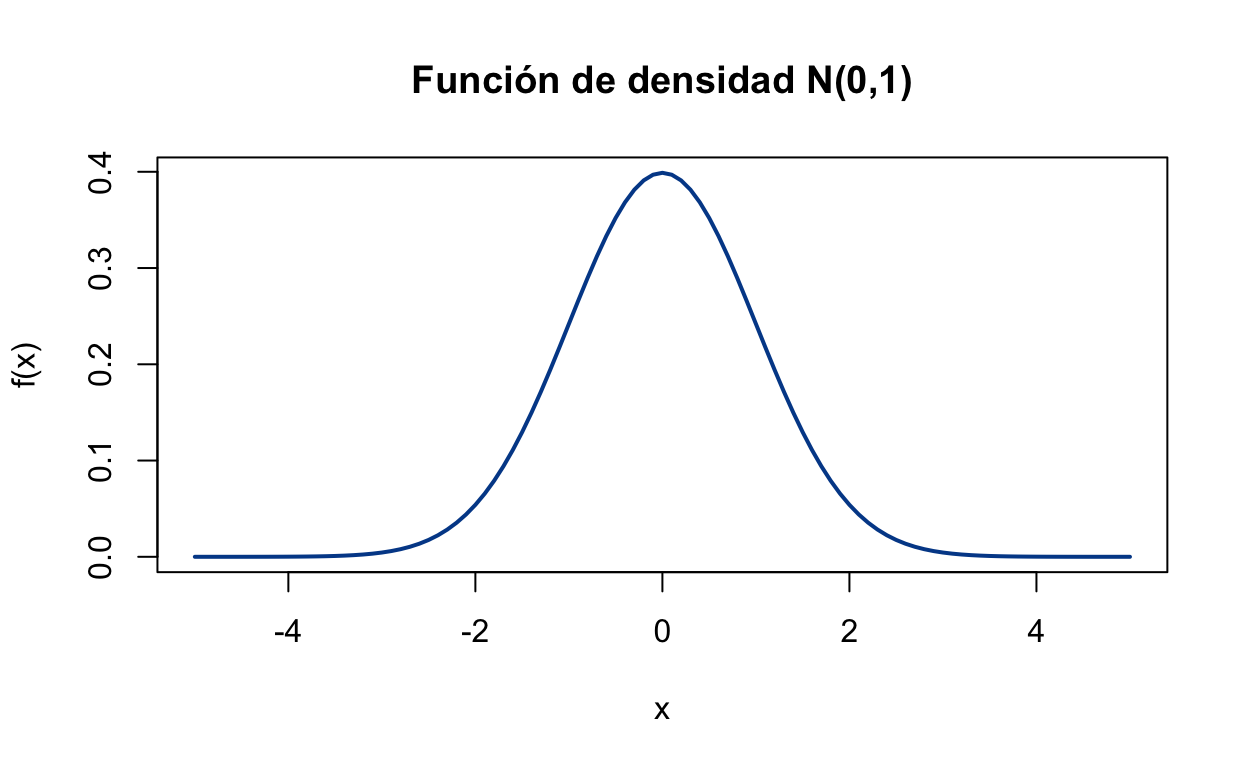
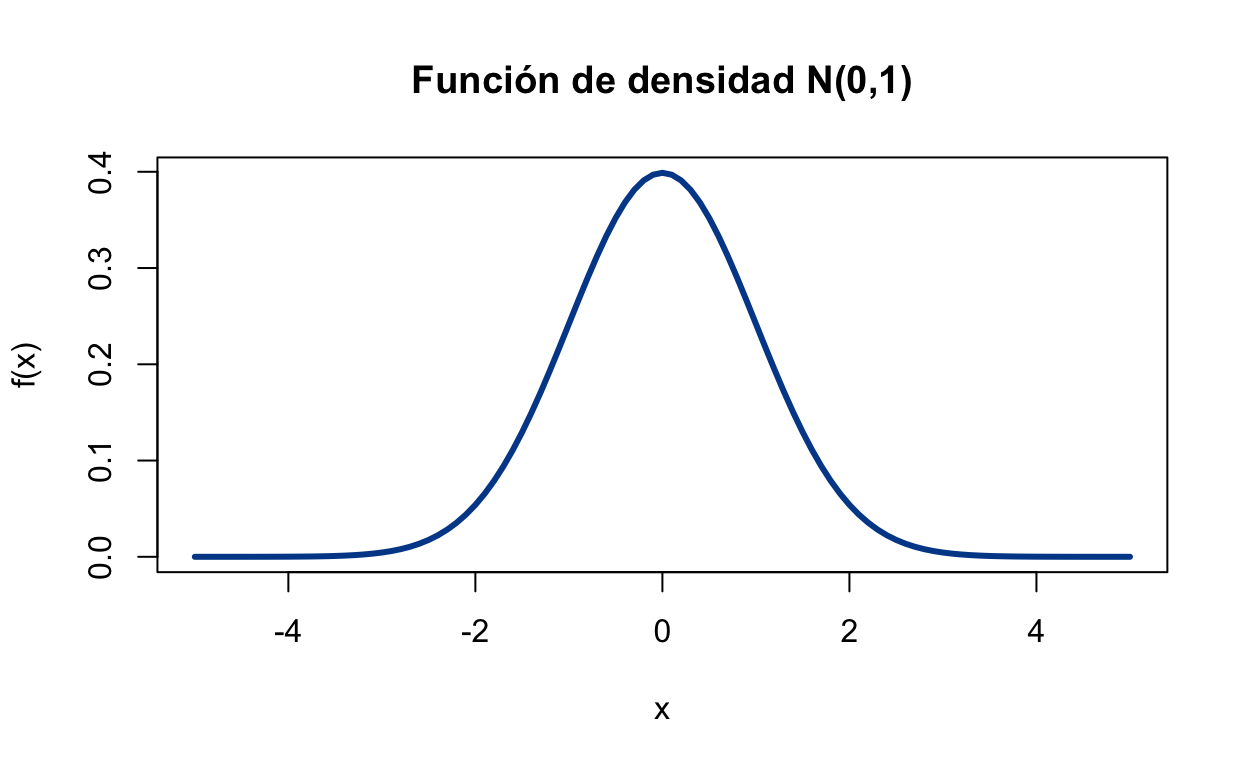
muestra

diff --git a/docs/clasemuestra.html b/docs/clasemuestra.html
@@ -46,43 +46,46 @@ pre.numberSource code > span > a:first-child::before
     -khtml-user-select: none; -moz-user-select: none;
     -ms-user-select: none; user-select: none;
     padding: 0 4px; width: 4em;
-    color: #aaaaaa;
+    background-color: #232629;
+    color: #7a7c7d;
   }
-pre.numberSource { margin-left: 3em; border-left: 1px solid #aaaaaa;  padding-left: 4px; }
+pre.numberSource { margin-left: 3em; border-left: 1px solid #7a7c7d;  padding-left: 4px; }
 div.sourceCode
-  {   }
+  { color: #cfcfc2; background-color: #232629; }
 @media screen {
 pre > code.sourceCode > span > a:first-child::before { text-decoration: underline; }
 }
-code span.al { color: #ad0000; } /* Alert */
-code span.an { color: #5e5e5e; } /* Annotation */
-code span.at { } /* Attribute */
-code span.bn { color: #ad0000; } /* BaseN */
-code span.bu { } /* BuiltIn */
-code span.cf { color: #007ba5; } /* ControlFlow */
-code span.ch { color: #20794d; } /* Char */
-code span.cn { color: #8f5902; } /* Constant */
-code span.co { color: #5e5e5e; } /* Comment */
-code span.cv { color: #5e5e5e; font-style: italic; } /* CommentVar */
-code span.do { color: #5e5e5e; font-style: italic; } /* Documentation */
-code span.dt { color: #ad0000; } /* DataType */
-code span.dv { color: #ad0000; } /* DecVal */
-code span.er { color: #ad0000; } /* Error */
-code span.ex { } /* Extension */
-code span.fl { color: #ad0000; } /* Float */
-code span.fu { color: #4758ab; } /* Function */
-code span.im { } /* Import */
-code span.in { color: #5e5e5e; } /* Information */
-code span.kw { color: #007ba5; } /* Keyword */
-code span.op { color: #5e5e5e; } /* Operator */
-code span.ot { color: #007ba5; } /* Other */
-code span.pp { color: #ad0000; } /* Preprocessor */
-code span.sc { color: #5e5e5e; } /* SpecialChar */
-code span.ss { color: #20794d; } /* SpecialString */
-code span.st { color: #20794d; } /* String */
-code span.va { color: #111111; } /* Variable */
-code span.vs { color: #20794d; } /* VerbatimString */
-code span.wa { color: #5e5e5e; font-style: italic; } /* Warning */
+code span { color: #cfcfc2; } /* Normal */
+code span.al { color: #95da4c; background-color: #4d1f24; font-weight: bold; } /* Alert */
+code span.an { color: #3f8058; } /* Annotation */
+code span.at { color: #2980b9; } /* Attribute */
+code span.bn { color: #f67400; } /* BaseN */
+code span.bu { color: #7f8c8d; } /* BuiltIn */
+code span.cf { color: #fdbc4b; font-weight: bold; } /* ControlFlow */
+code span.ch { color: #3daee9; } /* Char */
+code span.cn { color: #27aeae; font-weight: bold; } /* Constant */
+code span.co { color: #7a7c7d; } /* Comment */
+code span.cv { color: #7f8c8d; } /* CommentVar */
+code span.do { color: #a43340; } /* Documentation */
+code span.dt { color: #2980b9; } /* DataType */
+code span.dv { color: #f67400; } /* DecVal */
+code span.er { color: #da4453; text-decoration: underline; } /* Error */
+code span.ex { color: #0099ff; font-weight: bold; } /* Extension */
+code span.fl { color: #f67400; } /* Float */
+code span.fu { color: #8e44ad; } /* Function */
+code span.im { color: #27ae60; } /* Import */
+code span.in { color: #c45b00; } /* Information */
+code span.kw { color: #cfcfc2; font-weight: bold; } /* Keyword */
+code span.op { color: #cfcfc2; } /* Operator */
+code span.ot { color: #27ae60; } /* Other */
+code span.pp { color: #27ae60; } /* Preprocessor */
+code span.re { color: #2980b9; background-color: #153042; } /* RegionMarker */
+code span.sc { color: #3daee9; } /* SpecialChar */
+code span.ss { color: #da4453; } /* SpecialString */
+code span.st { color: #f44f4f; } /* String */
+code span.va { color: #27aeae; } /* Variable */
+code span.vs { color: #da4453; } /* VerbatimString */
+code span.wa { color: #da4453; } /* Warning */
 </style>
 
 
@@ -113,7 +116,7 @@ code span.wa { color: #5e5e5e; font-style: italic; } /* Warning */
   <!--radix_placeholder_rmarkdown_metadata-->
 
   <script type="text/json" id="radix-rmarkdown-metadata">
-  {"type":"list","attributes":{"names":{"type":"character","attributes":{},"value":["title","description","date","author","output"]}},"value":[{"type":"character","attributes":{},"value":["Clase Mi040522 "]},{"type":"character","attributes":{},"value":["3.1: Distribuciones de Probablibilidad\n\n3.1.3: Distrubución normal \n\nPortafolio de R\n"]},{"type":"character","attributes":{},"value":["May 4, 2022"]},{"type":"list","attributes":{},"value":[{"type":"list","attributes":{"names":{"type":"character","attributes":{},"value":["first_name","last_name","url","affiliation","affiliation_url"]}},"value":[{"type":"character","attributes":{},"value":["Rafael"]},{"type":"character","attributes":{},"value":["Martínez Martínez"]},{"type":"character","attributes":{},"value":["https://github.com/yihui"]},{"type":"character","attributes":{},"value":["UPIITA-IPN"]},{"type":"character","attributes":{},"value":["https://www.upiita.ipn.mx/"]}]}]},{"type":"list","attributes":{"names":{"type":"character","attributes":{},"value":["distill::distill_article"]}},"value":[{"type":"list","attributes":{"names":{"type":"character","attributes":{},"value":["toc","toc_float"]}},"value":[{"type":"logical","attributes":{},"value":[true]},{"type":"logical","attributes":{},"value":[true]}]}]}]}
+  {"type":"list","attributes":{"names":{"type":"character","attributes":{},"value":["title","description","date","author","output"]}},"value":[{"type":"character","attributes":{},"value":["Clase Mi040522 "]},{"type":"character","attributes":{},"value":["3.1: Distribuciones de Probablibilidad\n\n3.1.3: Distrubución normal \n\nPortafolio de R\n"]},{"type":"character","attributes":{},"value":["May 4, 2022"]},{"type":"list","attributes":{},"value":[{"type":"list","attributes":{"names":{"type":"character","attributes":{},"value":["first_name","last_name","url","affiliation","affiliation_url"]}},"value":[{"type":"character","attributes":{},"value":["Rafael"]},{"type":"character","attributes":{},"value":["Martínez Martínez"]},{"type":"character","attributes":{},"value":["https://github.com/yihui"]},{"type":"character","attributes":{},"value":["UPIITA-IPN"]},{"type":"character","attributes":{},"value":["https://www.upiita.ipn.mx/"]}]}]},{"type":"list","attributes":{"names":{"type":"character","attributes":{},"value":["distill::distill_article"]}},"value":[{"type":"list","attributes":{"names":{"type":"character","attributes":{},"value":["toc","toc_float","highlight","highlight_downlit"]}},"value":[{"type":"logical","attributes":{},"value":[true]},{"type":"logical","attributes":{},"value":[true]},{"type":"character","attributes":{},"value":["breezedark"]},{"type":"logical","attributes":{},"value":[true]}]}]}]}
   </script>
   <!--/radix_placeholder_rmarkdown_metadata-->
   <!--radix_placeholder_navigation_in_header-->
@@ -2147,6 +2150,11 @@ code span.wa { color: #5e5e5e; font-style: italic; } /* Warning */
    color: rgba(0,74,151,0.5);
   }
 
+  p {
+    
+    color: rgba(125,127,129,1);
+  }
+
   </style>
   <!--/radix_placeholder_site_in_header-->
 
@@ -2224,6 +2232,7 @@ probabilidad</a></li>
 <li><a href="#ejemplo-2">Ejemplo 2</a></li>
 <li><a href="#ejemplo-3">Ejemplo 3</a></li>
 <li><a href="#ejemplo-4">Ejemplo 4</a></li>
+<li><a href="#ejemplo-5">Ejemplo 5</a></li>
 </ul></li>
 </ul></li>
 <li><a href="#portafolio-de-r">Portafolio de R</a></li>
@@ -2240,11 +2249,11 @@ href="https://cran.r-project.org/web/views/Distributions.html">documento</a>
 donde se puede encontrar una descripción sobre las distribuciones y
 bibliotecas donde están inplementadas.</p>
 <h1 id="distribución-normal">Distribución normal</h1>
-<p>La función de distribución de probabilidad normal está determinada
+<p>La función de densidad de probabilidad normal está determinada
 por</p>
 <p><span class="math display">\[f(x) = \frac{1}{\sqrt{2 \pi} \sigma}
 e^{-\frac{(x - \mu)^2}{2 \sigma^2}}\]</span> Mientras que la función de
-densidad de probabilidad es</p>
+distribución de probabilidad es</p>
 <p><span class="math display">\[F(x)=P(X\leq x)=\int_{-\infty}^x f(t)
 \,dt=\frac{1}{\sqrt{2 \pi} \sigma}\int_{-\infty}^x e^{-\frac{(t -
 \mu)^2}{2 \sigma^2}}\,dt\]</span></p>
@@ -2288,12 +2297,12 @@ class="math inline">\(X\sim N(0,1)\)</span></p>
 <pre class="sourceCode r"><code class="sourceCode r"><span class='fu'><a href='https://rdrr.io/r/base/print.html'>print</a></span><span class='op'>(</span><span class='fu'><a href='https://rdrr.io/r/stats/Normal.html'>rnorm</a></span><span class='op'>(</span><span class='fl'>5</span><span class='op'>)</span><span class='op'>)</span>
 </code></pre>
 </div>
-<pre><code>[1] 0.7880043 0.3499556 1.9475103 0.1891410 0.1399257</code></pre>
+<pre><code>[1]  1.1587787  0.2045420  0.6764234 -0.3853769 -0.4586691</code></pre>
 </div>
 <p>Se realiza la gráfica de la función de densidad y de distribución</p>
 <div class="layout-chunk" data-layout="l-body">
 <div class="sourceCode">
-<pre class="sourceCode r"><code class="sourceCode r"><span class='fu'><a href='https://rdrr.io/r/graphics/curve.html'>curve</a></span><span class='op'>(</span><span class='fu'><a href='https://rdrr.io/r/stats/Normal.html'>dnorm</a></span><span class='op'>(</span><span class='va'>x</span>,<span class='fl'>0</span>,<span class='fl'>1</span><span class='op'>)</span>,xlim<span class='op'>=</span><span class='fu'><a href='https://rdrr.io/r/base/c.html'>c</a></span><span class='op'>(</span><span class='op'>-</span><span class='fl'>5</span>,<span class='fl'>5</span><span class='op'>)</span>,col<span class='op'>=</span><span class='st'>"#004A97"</span>,lwd<span class='op'>=</span><span class='fl'>2</span>,
+<pre class="sourceCode r"><code class="sourceCode r"><span class='fu'><a href='https://rdrr.io/r/graphics/curve.html'>curve</a></span><span class='op'>(</span><span class='fu'><a href='https://rdrr.io/r/stats/Normal.html'>dnorm</a></span><span class='op'>(</span><span class='va'>x</span>,<span class='fl'>0</span>,<span class='fl'>1</span><span class='op'>)</span>,xlim<span class='op'>=</span><span class='fu'><a href='https://rdrr.io/r/base/c.html'>c</a></span><span class='op'>(</span><span class='op'>-</span><span class='fl'>5</span>,<span class='fl'>5</span><span class='op'>)</span>,col<span class='op'>=</span><span class='st'>"#004A97"</span>,lwd<span class='op'>=</span><span class='fl'>3</span>,
       xlab<span class='op'>=</span><span class='st'>"x"</span>,ylab<span class='op'>=</span><span class='st'>"f(x)"</span>,main<span class='op'>=</span><span class='st'>"Función de densidad N(0,1)"</span><span class='op'>)</span>
 </code></pre>
 </div>
@@ -2301,7 +2310,7 @@ class="math inline">\(X\sim N(0,1)\)</span></p>
 </div>
 <div class="layout-chunk" data-layout="l-body">
 <div class="sourceCode">
-<pre class="sourceCode r"><code class="sourceCode r"><span class='fu'><a href='https://rdrr.io/r/graphics/curve.html'>curve</a></span><span class='op'>(</span><span class='fu'><a href='https://rdrr.io/r/stats/Normal.html'>pnorm</a></span><span class='op'>(</span><span class='va'>x</span>,<span class='fl'>0</span>,<span class='fl'>1</span><span class='op'>)</span>,xlim<span class='op'>=</span><span class='fu'><a href='https://rdrr.io/r/base/c.html'>c</a></span><span class='op'>(</span><span class='op'>-</span><span class='fl'>5</span>,<span class='fl'>5</span><span class='op'>)</span>,col<span class='op'>=</span><span class='st'>"#004A97"</span>,lwd<span class='op'>=</span><span class='fl'>2</span>,
+<pre class="sourceCode r"><code class="sourceCode r"><span class='fu'><a href='https://rdrr.io/r/graphics/curve.html'>curve</a></span><span class='op'>(</span><span class='fu'><a href='https://rdrr.io/r/stats/Normal.html'>pnorm</a></span><span class='op'>(</span><span class='va'>x</span>,<span class='fl'>0</span>,<span class='fl'>1</span><span class='op'>)</span>,xlim<span class='op'>=</span><span class='fu'><a href='https://rdrr.io/r/base/c.html'>c</a></span><span class='op'>(</span><span class='op'>-</span><span class='fl'>5</span>,<span class='fl'>5</span><span class='op'>)</span>,col<span class='op'>=</span><span class='st'>"#004A97"</span>,lwd<span class='op'>=</span><span class='fl'>3</span>,
       xlab<span class='op'>=</span><span class='st'>"x"</span>,ylab<span class='op'>=</span><span class='st'>"F(x)"</span>,main<span class='op'>=</span><span class='st'>"Función de distribución N(0,1)"</span><span class='op'>)</span>
 </code></pre>
 </div>
@@ -2330,12 +2339,12 @@ N(10,0.5)\)</span></p>
 <pre class="sourceCode r"><code class="sourceCode r"><span class='fu'><a href='https://rdrr.io/r/base/print.html'>print</a></span><span class='op'>(</span><span class='fu'><a href='https://rdrr.io/r/stats/Normal.html'>rnorm</a></span><span class='op'>(</span><span class='fl'>5</span>, mean <span class='op'>=</span> <span class='fl'>5</span>, sd <span class='op'>=</span> <span class='fl'>0.5</span><span class='op'>)</span><span class='op'>)</span>
 </code></pre>
 </div>
-<pre><code>[1] 4.936604 4.939643 4.621390 5.331487 4.085419</code></pre>
+<pre><code>[1] 4.303156 5.351702 5.201424 5.414744 5.128848</code></pre>
 </div>
 <p>Se realiza la gráfica de la función de densidad y de distribución</p>
 <div class="layout-chunk" data-layout="l-body">
 <div class="sourceCode">
-<pre class="sourceCode r"><code class="sourceCode r"><span class='fu'><a href='https://rdrr.io/r/graphics/curve.html'>curve</a></span><span class='op'>(</span><span class='fu'><a href='https://rdrr.io/r/stats/Normal.html'>dnorm</a></span><span class='op'>(</span><span class='va'>x</span>,<span class='fl'>10</span>,<span class='fl'>0.5</span><span class='op'>)</span>,xlim<span class='op'>=</span><span class='fu'><a href='https://rdrr.io/r/base/c.html'>c</a></span><span class='op'>(</span><span class='fl'>3</span>,<span class='fl'>17</span><span class='op'>)</span>,col<span class='op'>=</span><span class='st'>"#004A97"</span>,lwd<span class='op'>=</span><span class='fl'>2</span>,
+<pre class="sourceCode r"><code class="sourceCode r"><span class='fu'><a href='https://rdrr.io/r/graphics/curve.html'>curve</a></span><span class='op'>(</span><span class='fu'><a href='https://rdrr.io/r/stats/Normal.html'>dnorm</a></span><span class='op'>(</span><span class='va'>x</span>,<span class='fl'>10</span>,<span class='fl'>0.5</span><span class='op'>)</span>,xlim<span class='op'>=</span><span class='fu'><a href='https://rdrr.io/r/base/c.html'>c</a></span><span class='op'>(</span><span class='fl'>3</span>,<span class='fl'>17</span><span class='op'>)</span>,col<span class='op'>=</span><span class='st'>"#004A97"</span>,lwd<span class='op'>=</span><span class='fl'>3</span>,
       xlab<span class='op'>=</span><span class='st'>"x"</span>,ylab<span class='op'>=</span><span class='st'>"f(x)"</span>,main<span class='op'>=</span><span class='st'>"Función de densidad N(10,0.5)"</span><span class='op'>)</span>
 </code></pre>
 </div>
@@ -2343,13 +2352,25 @@ N(10,0.5)\)</span></p>
 </div>
 <div class="layout-chunk" data-layout="l-body">
 <div class="sourceCode">
-<pre class="sourceCode r"><code class="sourceCode r"><span class='fu'><a href='https://rdrr.io/r/graphics/curve.html'>curve</a></span><span class='op'>(</span><span class='fu'><a href='https://rdrr.io/r/stats/Normal.html'>pnorm</a></span><span class='op'>(</span><span class='va'>x</span>,<span class='fl'>10</span>,<span class='fl'>0.5</span><span class='op'>)</span>,xlim<span class='op'>=</span><span class='fu'><a href='https://rdrr.io/r/base/c.html'>c</a></span><span class='op'>(</span><span class='fl'>3</span>,<span class='fl'>17</span><span class='op'>)</span>,col<span class='op'>=</span><span class='st'>"#004A97"</span>,lwd<span class='op'>=</span><span class='fl'>2</span>,
+<pre class="sourceCode r"><code class="sourceCode r"><span class='fu'><a href='https://rdrr.io/r/graphics/curve.html'>curve</a></span><span class='op'>(</span><span class='fu'><a href='https://rdrr.io/r/stats/Normal.html'>pnorm</a></span><span class='op'>(</span><span class='va'>x</span>,<span class='fl'>10</span>,<span class='fl'>0.5</span><span class='op'>)</span>,xlim<span class='op'>=</span><span class='fu'><a href='https://rdrr.io/r/base/c.html'>c</a></span><span class='op'>(</span><span class='fl'>3</span>,<span class='fl'>17</span><span class='op'>)</span>,col<span class='op'>=</span><span class='st'>"#004A97"</span>,lwd<span class='op'>=</span><span class='fl'>3</span>,
       xlab<span class='op'>=</span><span class='st'>"x"</span>,ylab<span class='op'>=</span><span class='st'>"F(x)"</span>,main<span class='op'>=</span><span class='st'>"Función de distribución N(10,0.5)"</span><span class='op'>)</span>
 </code></pre>
 </div>
 <p><img src="clasemuestra_files/figure-html5/unnamed-chunk-6-1.png" width="624" /></p>
 </div>
 <h3 id="ejemplo-3">Ejemplo 3</h3>
+<p>Dada <span class="math inline">\(X\sim N(50,10)\)</span> encuentra la
+probabilidad que asuma los calores entre 45 y 62.</p>
+<p>Entonces</p>
+<p><span class="math display">\[P(45&lt;X&lt;62)= P(X\leq 62) - P(X\leq
+45)=F(62)- F(45)\]</span></p>
+<div class="layout-chunk" data-layout="l-body">
+<div class="sourceCode">
+<pre class="sourceCode r"><code class="sourceCode r"><span class='fu'><a href='https://rdrr.io/r/stats/Normal.html'>pnorm</a></span><span class='op'>(</span><span class='fl'>62</span>, mean <span class='op'>=</span> <span class='fl'>50</span>, sd <span class='op'>=</span> <span class='fl'>10</span><span class='op'>)</span> <span class='op'>-</span> <span class='fu'><a href='https://rdrr.io/r/stats/Normal.html'>pnorm</a></span><span class='op'>(</span><span class='fl'>45</span>,mean <span class='op'>=</span> <span class='fl'>50</span>, sd <span class='op'>=</span> <span class='fl'>10</span><span class='op'>)</span>
+</code></pre>
+</div>
+<pre><code>[1] 0.5763928</code></pre>
+</div>
 <p>Creamos una función para esta visualización.</p>
 <div class="layout-chunk" data-layout="l-body">
 <div class="sourceCode">
@@ -2362,28 +2383,52 @@ N(10,0.5)\)</span></p>
   <span class='va'>yP</span> <span class='op'>&lt;-</span> <span class='fu'><a href='https://rdrr.io/r/base/c.html'>c</a></span><span class='op'>(</span><span class='fl'>0</span>,<span class='fu'><a href='https://rdrr.io/r/stats/Normal.html'>dnorm</a></span><span class='op'>(</span><span class='va'>regionX</span>,<span class='va'>mean</span>,<span class='va'>sd</span><span class='op'>)</span>,<span class='fl'>0</span><span class='op'>)</span>   <span class='co'># Altura de los polígonos sombreados</span>
   
   <span class='fu'><a href='https://rdrr.io/r/graphics/curve.html'>curve</a></span><span class='op'>(</span><span class='fu'><a href='https://rdrr.io/r/stats/Normal.html'>dnorm</a></span><span class='op'>(</span><span class='va'>x</span>,<span class='va'>mean</span>,<span class='va'>sd</span><span class='op'>)</span>,
-        xlim <span class='op'>=</span><span class='fu'><a href='https://rdrr.io/r/base/c.html'>c</a></span><span class='op'>(</span><span class='va'>mean</span><span class='op'>-</span><span class='fl'>5</span><span class='op'>*</span><span class='va'>sd</span>,<span class='va'>mean</span><span class='op'>+</span><span class='fl'>5</span><span class='op'>*</span><span class='va'>sd</span><span class='op'>)</span>,
-        yaxs<span class='op'>=</span><span class='st'>"i"</span>,
-        ylab<span class='op'>=</span><span class='st'>"f(x)"</span>,
+        xlim <span class='op'>=</span> <span class='fu'><a href='https://rdrr.io/r/base/c.html'>c</a></span><span class='op'>(</span><span class='va'>mean</span><span class='op'>-</span><span class='fl'>5</span><span class='op'>*</span><span class='va'>sd</span>,<span class='va'>mean</span><span class='op'>+</span><span class='fl'>5</span><span class='op'>*</span><span class='va'>sd</span><span class='op'>)</span>,
+        yaxs <span class='op'>=</span> <span class='st'>"i"</span>,
+        ylab <span class='op'>=</span> <span class='st'>"f(x)"</span>,
         ylim <span class='op'>=</span> <span class='fu'><a href='https://rdrr.io/r/base/c.html'>c</a></span><span class='op'>(</span><span class='fl'>0</span>, <span class='fu'><a href='https://rdrr.io/r/stats/Normal.html'>dnorm</a></span><span class='op'>(</span><span class='va'>mean</span>,<span class='va'>mean</span>,<span class='va'>sd</span><span class='op'>)</span><span class='op'>*</span><span class='fl'>1.2</span><span class='op'>)</span>,
-        col<span class='op'>=</span><span class='st'>"#004A97"</span>,
-        lwd<span class='op'>=</span><span class='fl'>2</span>,
-        main <span class='op'>=</span> <span class='fu'><a href='https://rdrr.io/r/base/paste.html'>paste</a></span><span class='op'>(</span><span class='st'>'DensidadN('</span>,<span class='fu'><a href='https://rdrr.io/r/base/character.html'>as.character</a></span><span class='op'>(</span><span class='va'>mean</span><span class='op'>)</span>,<span class='st'>','</span>,
+        col <span class='op'>=</span> <span class='st'>"#004A97"</span>,
+        lwd <span class='op'>=</span> <span class='fl'>3</span>,
+        main <span class='op'>=</span> <span class='fu'><a href='https://rdrr.io/r/base/paste.html'>paste</a></span><span class='op'>(</span><span class='st'>'Densidad N('</span>,<span class='fu'><a href='https://rdrr.io/r/base/character.html'>as.character</a></span><span class='op'>(</span><span class='va'>mean</span><span class='op'>)</span>,<span class='st'>','</span>,
                      <span class='fu'><a href='https://rdrr.io/r/base/character.html'>as.character</a></span><span class='op'>(</span><span class='va'>sd</span><span class='op'>)</span>,<span class='st'>')'</span><span class='op'>)</span>
         <span class='op'>)</span>
         
   <span class='fu'><a href='https://rdrr.io/r/graphics/polygon.html'>polygon</a></span><span class='op'>(</span><span class='va'>xP</span>,<span class='va'>yP</span>,col<span class='op'>=</span><span class='st'>"#CAA977"</span><span class='op'>)</span>
   <span class='op'>}</span>
-
-
-
-
-<span class='fu'>proba_gra</span><span class='op'>(</span><span class='op'>-</span><span class='fl'>1</span>,<span class='fl'>1</span><span class='op'>)</span>
 </code></pre>
 </div>
-<p><img src="clasemuestra_files/figure-html5/unnamed-chunk-7-1.png" width="624" /></p>
+</div>
+<div class="layout-chunk" data-layout="l-body">
+<div class="sourceCode">
+<pre class="sourceCode r"><code class="sourceCode r"><span class='fu'>proba_gra</span><span class='op'>(</span><span class='fl'>45</span>, <span class='fl'>62</span>, mean <span class='op'>=</span> <span class='fl'>50</span>, sd <span class='op'>=</span> <span class='fl'>10</span><span class='op'>)</span>
+</code></pre>
+</div>
+<p><img src="clasemuestra_files/figure-html5/unnamed-chunk-9-1.png" width="624" /></p>
 </div>
 <h3 id="ejemplo-4">Ejemplo 4</h3>
+<p>Dada una VA <span class="math inline">\(X\sim N(40, 6)\)</span>,
+encuentra el valor de <span class="math inline">\(x\)</span> tal que</p>
+<ol type="a">
+<li>El <span class="math inline">\(45%\)</span> del a´rea está a la
+izquierda de <span class="math inline">\(x\)</span></li>
+<li>El <span class="math inline">\(14%\)</span> del área está a la
+derecha de <span class="math inline">\(x\)</span></li>
+</ol>
+<div class="layout-chunk" data-layout="l-body">
+<div class="sourceCode">
+<pre class="sourceCode r"><code class="sourceCode r"><span class='fu'>proba_gra</span><span class='op'>(</span><span class='op'>-</span><span class='fl'>100</span>, <span class='fl'>39.24</span>, mean <span class='op'>=</span> <span class='fl'>40</span>, sd <span class='op'>=</span> <span class='fl'>6</span><span class='op'>)</span>
+</code></pre>
+</div>
+<p><img src="clasemuestra_files/figure-html5/unnamed-chunk-10-1.png" width="624" /></p>
+</div>
+<div class="layout-chunk" data-layout="l-body">
+<div class="sourceCode">
+<pre class="sourceCode r"><code class="sourceCode r"><span class='fu'>proba_gra</span><span class='op'>(</span><span class='fl'>46.48</span>, <span class='fl'>100</span>, mean <span class='op'>=</span> <span class='fl'>40</span>, sd <span class='op'>=</span> <span class='fl'>6</span><span class='op'>)</span>
+</code></pre>
+</div>
+<p><img src="clasemuestra_files/figure-html5/unnamed-chunk-11-1.png" width="624" /></p>
+</div>
+<h3 id="ejemplo-5">Ejemplo 5</h3>
 <div class="layout-chunk" data-layout="l-body">
 <div class="sourceCode">
 <pre class="sourceCode r"><code class="sourceCode r"><span class='va'>datos</span> <span class='op'>&lt;-</span> <span class='fu'><a href='https://rdrr.io/r/stats/Normal.html'>rnorm</a></span><span class='op'>(</span>n<span class='op'>=</span><span class='fl'>10000</span>, mean<span class='op'>=</span><span class='fl'>0</span>, sd<span class='op'>=</span><span class='fl'>1</span><span class='op'>)</span>
@@ -2400,7 +2445,7 @@ N(10,0.5)\)</span></p>
       add <span class='op'>=</span> <span class='cn'>TRUE</span><span class='op'>)</span>
 </code></pre>
 </div>
-<p><img src="clasemuestra_files/figure-html5/unnamed-chunk-8-1.png" width="624" /></p>
+<p><img src="clasemuestra_files/figure-html5/unnamed-chunk-12-1.png" width="624" /></p>
 </div>
 <div class="layout-chunk" data-layout="l-body">
 <div class="sourceCode">
@@ -2443,7 +2488,7 @@ N(10,0.5)\)</span></p>
 <span class='fu'>peso_beta3</span><span class='op'>(</span><span class='fl'>120</span>,<span class='fl'>0.0609</span><span class='op'>)</span>
 </code></pre>
 </div>
-<p><img src="clasemuestra_files/figure-html5/unnamed-chunk-10-1.png" width="624" /></p>
+<p><img src="clasemuestra_files/figure-html5/unnamed-chunk-14-1.png" width="624" /></p>
 </div>
 <h1 id="portafolio-de-r">Portafolio de R</h1>
 <p><strong>Visualización de COVID y series de tiempo</strong></p>
@@ -2465,7 +2510,7 @@ class="uri">https://rafneta.shinyapps.io/ARMA/</a></p>
 <p><strong>Series de tiempo</strong></p>
 <p><a href="https://rafneta.github.io/STTareas/Tarea2ST.html"
 class="uri">https://rafneta.github.io/STTareas/Tarea2ST.html</a></p>
-<div class="sourceCode" id="cb9"><pre
+<div class="sourceCode" id="cb10"><pre
 class="sourceCode r distill-force-highlighting-css"><code class="sourceCode r"></code></pre></div>
 <!--radix_placeholder_article_footer-->
 <!--/radix_placeholder_article_footer-->

diff --git a/docs/index.html b/docs/index.html
@@ -2143,6 +2143,11 @@ code span.wa { color: #5e5e5e; font-style: italic; } /* Warning */
    color: rgba(0,74,151,0.5);
   }
 
+  p {
+    
+    color: rgba(125,127,129,1);
+  }
+
   </style>
   <!--/radix_placeholder_site_in_header-->
 

diff --git a/docs/estilo.css b/docs/estilo.css
@@ -92,3 +92,8 @@ d-article p a:link {
  td  a {
  color: rgba(0,74,151,0.5);
 }
+
+p {
+  
+  color: rgba(125,127,129,1);
+}
